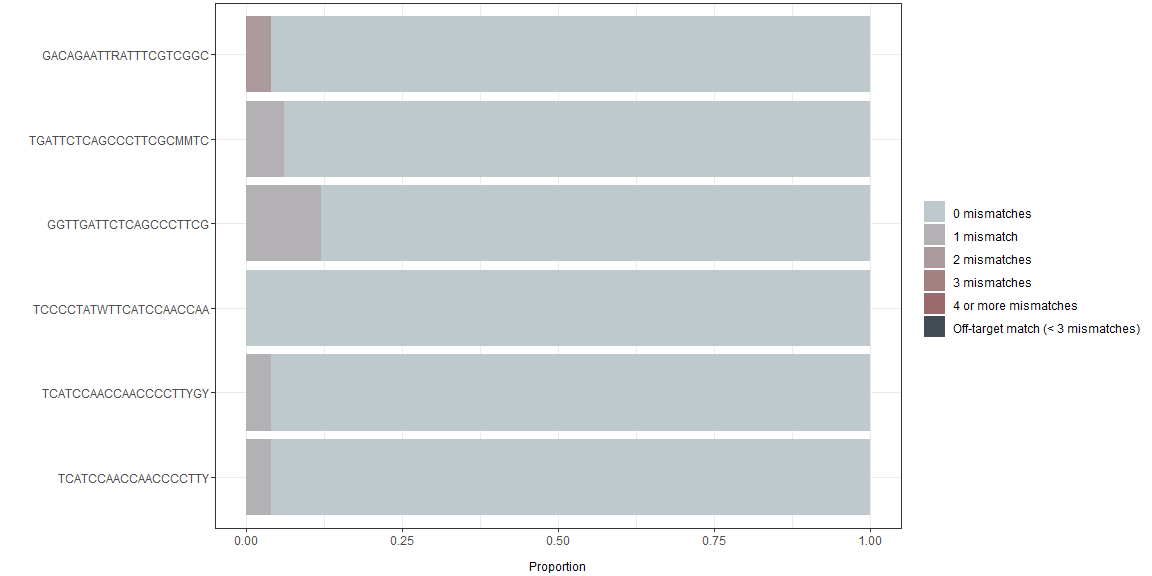
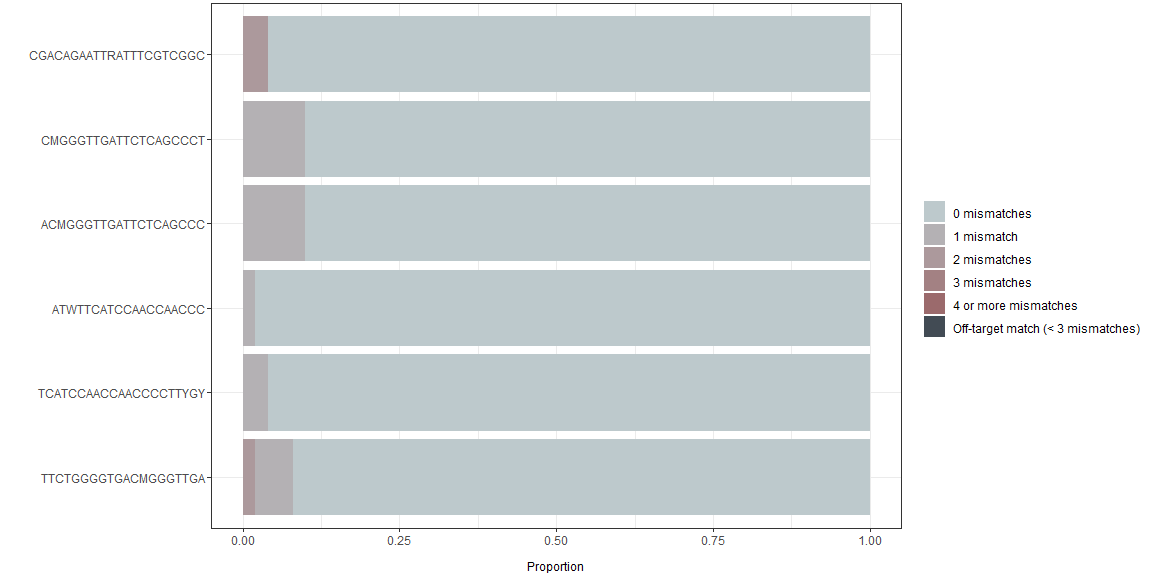
Added link to Shiny application in readme

diff --git a/README.md b/README.md
@@ -46,6 +46,9 @@ The package can be run through a Shiny application (a graphical user
 interface). To start the application, type `runRprimerApp()` from within
 R upon installing and attaching the package.
 
+The application can also be found online,
+[here](https://sofpn.shinyapps.io/rprimer).
+
 ## Workflow
 
 ### Import alignment
@@ -170,12 +173,12 @@ Results:
 
 | iupacSequence          | perfectMatch | idPerfectMatch | oneMismatch | idOneMismatch | twoMismatches | idTwoMismatches | threeMismatches | idThreeMismatches | fourOrMoreMismatches | idFourOrMoreMismatches | offTargetMatch | idOffTargetMatch |
 |:-----------------------|-------------:|:---------------|------------:|:--------------|--------------:|:----------------|----------------:|:------------------|---------------------:|:-----------------------|---------------:|:-----------------|
-| GACAGAATTRATTTCGTCGGC  |         0.96 | AB073912….     |        0.00 |               |          0.04 | MH410175….      |               0 |                   |                    0 |                        |              0 |                  |
-| TGATTCTCAGCCCTTCGCMMTC |         0.94 | AB073912….     |        0.06 | AB481228….    |          0.00 |                 |               0 |                   |                    0 |                        |              0 |                  |
-| GGTTGATTCTCAGCCCTTCG   |         0.88 | AB073912….     |        0.12 | AB481228….    |          0.00 |                 |               0 |                   |                    0 |                        |              0 |                  |
-| TCCCCTATWTTCATCCAACCAA |         1.00 | AB073912….     |        0.00 |               |          0.00 |                 |               0 |                   |                    0 |                        |              0 |                  |
+| CGACAGAATTRATTTCGTCGGC |         0.96 | AB073912….     |        0.00 |               |          0.04 | MH410175….      |               0 |                   |                    0 |                        |              0 |                  |
+| CMGGGTTGATTCTCAGCCCT   |         0.90 | AB073912….     |        0.10 | AB481228….    |          0.00 |                 |               0 |                   |                    0 |                        |              0 |                  |
+| ACMGGGTTGATTCTCAGCCC   |         0.90 | AB073912….     |        0.10 | AB481228….    |          0.00 |                 |               0 |                   |                    0 |                        |              0 |                  |
+| ATWTTCATCCAACCAACCC    |         0.98 | AB073912….     |        0.02 | HM439284.1    |          0.00 |                 |               0 |                   |                    0 |                        |              0 |                  |
 | TCATCCAACCAACCCCTTYGY  |         0.96 | AB073912….     |        0.04 | MF444040….    |          0.00 |                 |               0 |                   |                    0 |                        |              0 |                  |
-| TCATCCAACCAACCCCTTY    |         0.96 | AB073912….     |        0.04 | MF444040….    |          0.00 |                 |               0 |                   |                    0 |                        |              0 |                  |
+| TTCTGGGGTGACMGGGTTGA   |         0.92 | AB073912….     |        0.06 | BD378055….    |          0.02 | JQ953665.1      |               0 |                   |                    0 |                        |              0 |                  |
 
 The match table can be visualized using `plotData()`:
 
